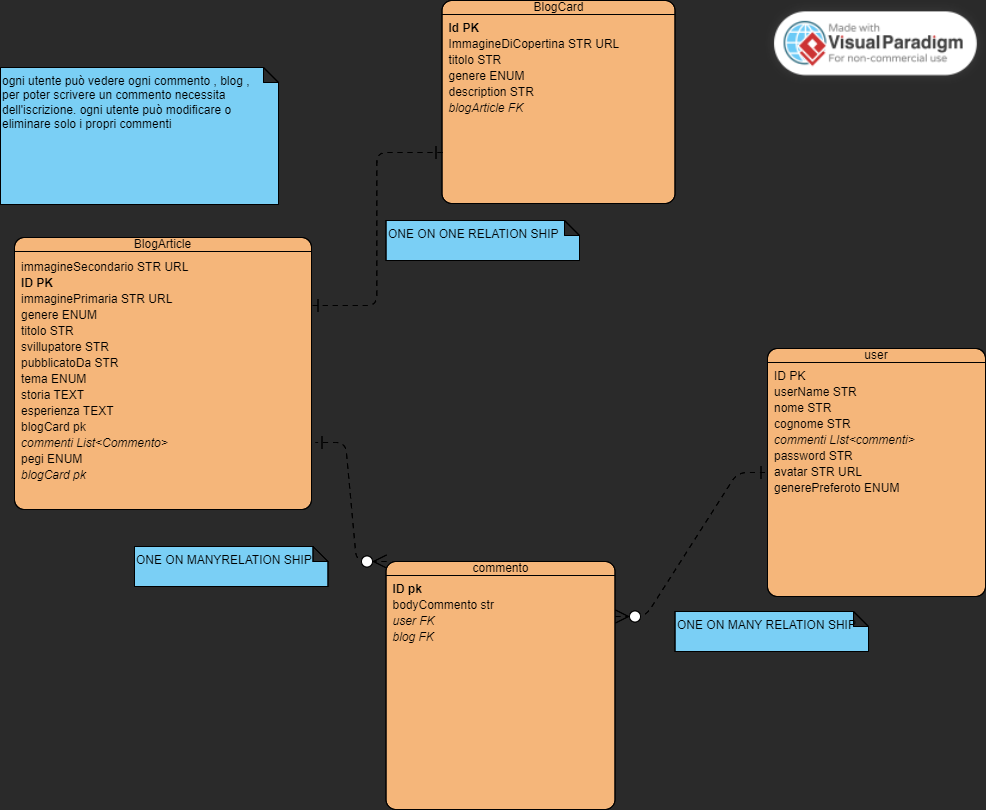
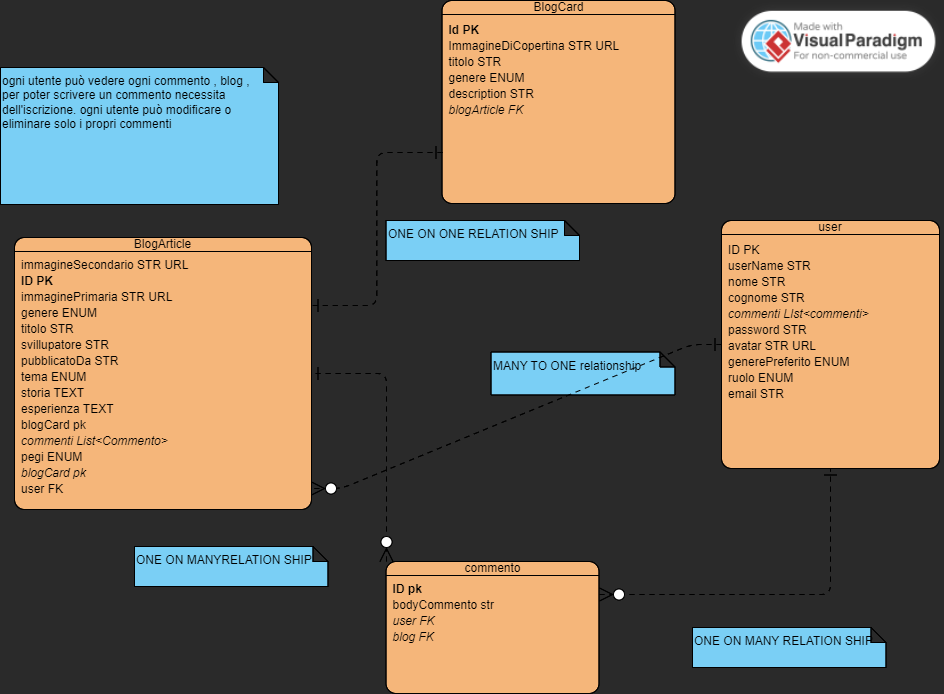
aggiunta relazione tra user e article

diff --git a/capstone/src/main/java/application/capstone/service/BlogArticleService.java b/capstone/src/main/java/application/capstone/service/BlogArticleService.java
@@ -3,6 +3,7 @@ package application.capstone.service;
 import application.capstone.entities.BlogArticle;
 
 import application.capstone.entities.BlogCard;
+import application.capstone.entities.User;
 import application.capstone.enums.Genere;
 
 import application.capstone.enums.Tema;
@@ -37,11 +38,16 @@ public class BlogArticleService {
     @Autowired
     private BlogCardRepository blogCardRepo;
     @Autowired
+    private UserService userService;
+    @Autowired
     private Cloudinary cloudinary;
 
     public BlogArticle save(NewBlogArticleDTO body) throws IOException {
 
         BlogArticle newBlog = new BlogArticle();
+
+        User userBlog = userService.findById(body.user());
+
 
         newBlog.setTitolo(body.titolo());
         newBlog.setSvillupatore(body.svillupatore());
@@ -68,6 +74,7 @@ public class BlogArticleService {
 
         newBlog.setGenresList(generiSet);
         newBlog.setComments(new ArrayList<>());
+        newBlog.setUser(userBlog);
 
         BlogArticle savedBlog = blogArticleRepo.save(newBlog);
         BlogCard newBlogCard = new BlogCard();
@@ -89,11 +96,8 @@ public class BlogArticleService {
         found.setTitolo(body.titolo());
         found.setSvillupatore(body.svillupatore());
         found.setPubblicazione(body.pubblicazione());
-        try {
-            found.setTema(Tema.valueOf(body.tema().trim().toUpperCase()));
-        }catch (IllegalArgumentException ex){
-            throw new BadRequestException("tema non valido");
-        }
+
+        found.setTema(body.tema());
 
         found.setStoria(body.storia());
         found.setEsperienza(body.esperienza());

diff --git a/capstone/src/main/java/application/capstone/service/UserService.java b/capstone/src/main/java/application/capstone/service/UserService.java
@@ -12,6 +12,7 @@ import org.springframework.data.domain.Page;
 import org.springframework.data.domain.PageRequest;
 import org.springframework.data.domain.Pageable;
 import org.springframework.data.domain.Sort;
+import org.springframework.security.crypto.password.PasswordEncoder;
 import org.springframework.stereotype.Service;
 
 import java.io.IOException;
@@ -23,6 +24,8 @@ public class UserService {
 
     @Autowired
     private UserRepository userRepo;
+    @Autowired
+    private PasswordEncoder bcrypt;
 
 
 
@@ -48,7 +51,7 @@ public class UserService {
         }
         found.setNome(body.nome());
         found.setCognome(body.cognome());
-        found.setPassword(body.password());
+        found.setPassword(bcrypt.encode(body.password()));
         found.setUsername(body.userName());
         if(body.generePreferito() != null){
             try {
@@ -74,10 +77,6 @@ public class UserService {
         Pageable pageable = PageRequest.of(page, size , Sort.by(order));
         return userRepo.findAll(pageable);
     }
-
-
-
-
 
     public void findByIdAndDelete(UUID id) throws NotFoundException{
         User found = findById(id);

diff --git a/capstone/src/main/java/application/capstone/payloads/PUTBlogArticleDTO.java b/capstone/src/main/java/application/capstone/payloads/PUTBlogArticleDTO.java
@@ -1,5 +1,6 @@
 package application.capstone.payloads;
 
+import application.capstone.enums.Tema;
 import application.capstone.validatorEnums.TemaEnumValidator;
 import jakarta.validation.constraints.NotEmpty;
 import jakarta.validation.constraints.NotNull;
@@ -16,7 +17,7 @@ public record PUTBlogArticleDTO(@NotEmpty(message = "Il titolo è un campo obbli
                                 String pubblicazione,
                                 @NotNull(message = "il tema è un campo obbligatorio")
                                 @TemaEnumValidator
-                                String tema,
+                                Tema tema,
                                 @NotEmpty(message = "la storia è un campo obbligatorio!")
                                 @Size(min = 20, max=600, message = "la storia deve essere compreso tra 20 e 600 caratteri")
                                 String storia,

diff --git a/capstone/src/main/java/application/capstone/payloads/NewBlogArticleDTO.java b/capstone/src/main/java/application/capstone/payloads/NewBlogArticleDTO.java
@@ -9,6 +9,8 @@ import jakarta.validation.constraints.NotNull;
 import jakarta.validation.constraints.Pattern;
 import jakarta.validation.constraints.Size;
 
+import java.util.UUID;
+
 public record NewBlogArticleDTO(
         @NotEmpty(message = "Il titolo è un campo obbligatorio!")
         @Size(min = 1, max=30, message = "Il titolo deve essere compreso tra 1 e 30 caratteri")
@@ -36,6 +38,8 @@ public record NewBlogArticleDTO(
         String genere,
         @NotEmpty(message = "una breve descrizione è un campo obbligatorio!")
         @Size(min = 10, max=30, message = "la descrizione deve essere lunga tra i 10 e i 30 caratteri")
-        String desciption
+        String desciption,
+        @NotNull(message = "l'id utente è un campo obbligatorio!")
+        UUID user
 ) {
 }

diff --git a/capstone/src/main/java/application/capstone/entities/User.java b/capstone/src/main/java/application/capstone/entities/User.java
@@ -2,6 +2,7 @@ package application.capstone.entities;
 
 import application.capstone.enums.Genere;
 import application.capstone.enums.Role;
+import com.fasterxml.jackson.annotation.JsonIgnore;
 import jakarta.persistence.*;
 import lombok.Getter;
 import lombok.NoArgsConstructor;
@@ -32,6 +33,9 @@ public class User implements UserDetails {
     private String email;
     @Enumerated(EnumType.STRING)
     private Role ruolo;
+    @JsonIgnore
+    @OneToMany
+    private List<BlogArticle> blogs;
 
 
     public void setNome(String nome) {

diff --git a/capstone/src/main/java/application/capstone/service/AuthService.java b/capstone/src/main/java/application/capstone/service/AuthService.java
@@ -61,11 +61,10 @@ public class AuthService {
 
         User newUser = new User();
 
-
         newUser.setCognome(body.cognome());
         newUser.setNome(body.nome());
         newUser.setUsername(body.userName());
-        newUser.setPassword(body.password());
+        newUser.setPassword(bcrypt.encode(body.password()));
         newUser.setEmail(body.email());
         newUser.setRuolo(Role.USER);
 

diff --git a/capstone/src/main/java/application/capstone/entities/BlogArticle.java b/capstone/src/main/java/application/capstone/entities/BlogArticle.java
@@ -91,6 +91,10 @@ public class BlogArticle {
         this.comments = comments;
     }
 
+    public void setUser(User user) {
+        this.user = user;
+    }
+
     @Override
     public String toString() {
         return "BlogArticle{"+ id +
